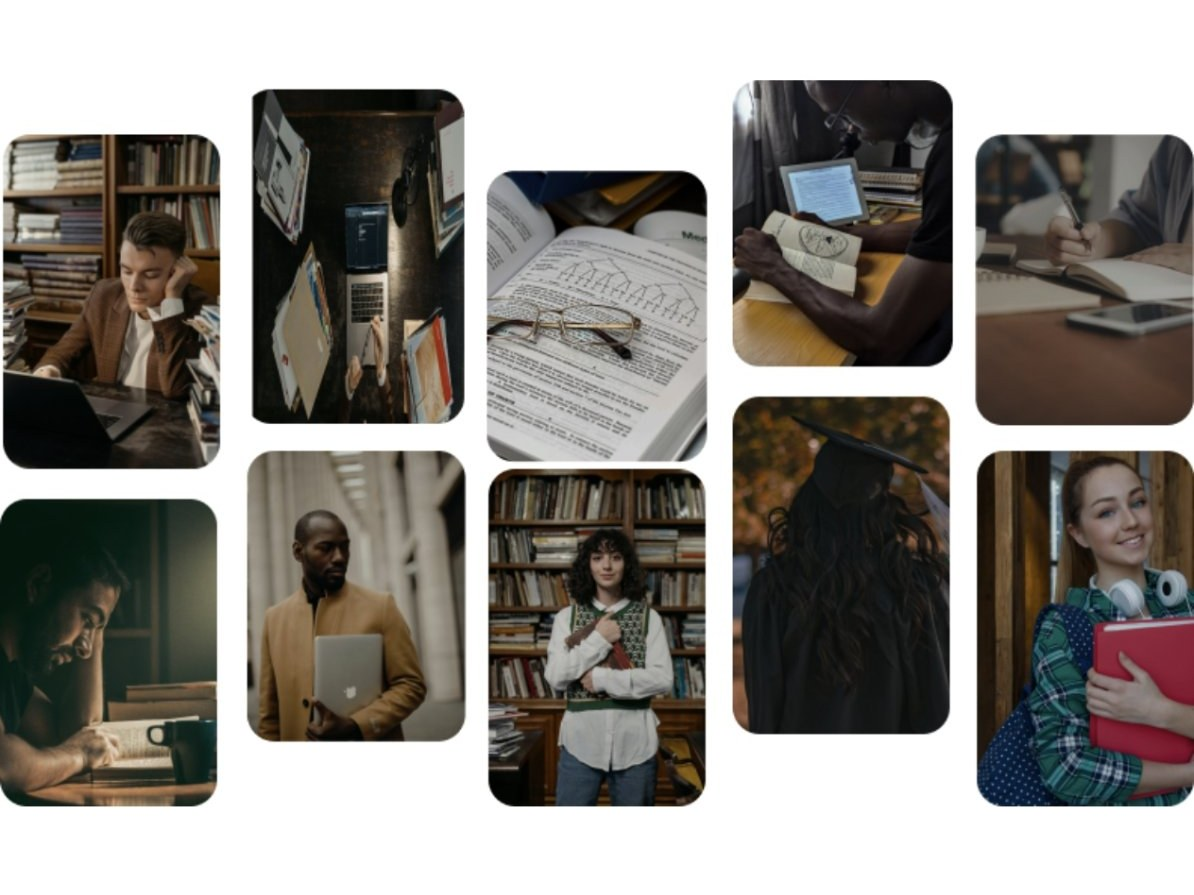
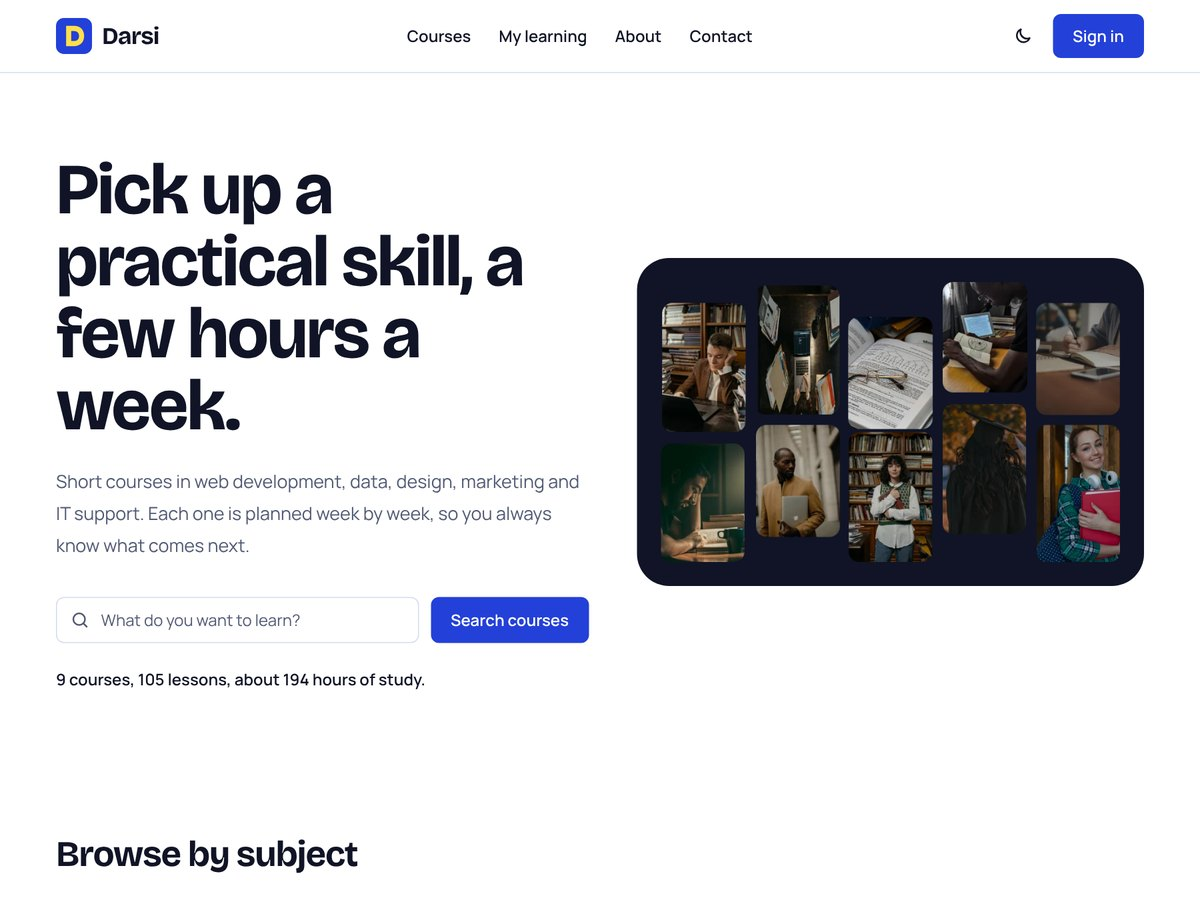
Projects: the E-Learning card becomes Darsi, the rebuilt course platform
New name, description, screenshot and live address.

Claude-Session: https://claude.ai/code/session_01TkRPnwSefusrgepjoER5a5

diff --git a/app/components/Projects.tsx b/app/components/Projects.tsx
@@ -95,12 +95,12 @@ const projects: Project[] = [
     demo: 'https://cal-help.vercel.app',
   },
   {
-    name: 'E-Learning Platform UI',
+    name: 'Darsi, an Online Course Platform',
     description:
-      'A responsive front end for an online learning platform: landing page, about, contact and sign-in screens, with a dark mode toggle.',
-    stack: ['React', 'Vite', 'Tailwind CSS'],
+      'A course platform front end you can use end to end: search nine courses, open one to see its plan week by week, enroll, tick lessons off and come back to find your place. Filters live in the address bar, forms have real validation, and progress is saved in the browser. With dark mode.',
+    stack: ['React', 'Vite', 'React Router', 'Tailwind CSS'],
     image: '/projects/e-learning.jpg',
-    demo: 'https://elerning-platform-reactjs-tw.netlify.app',
+    demo: 'https://darsi-courses.vercel.app',
   },
 ]
 
